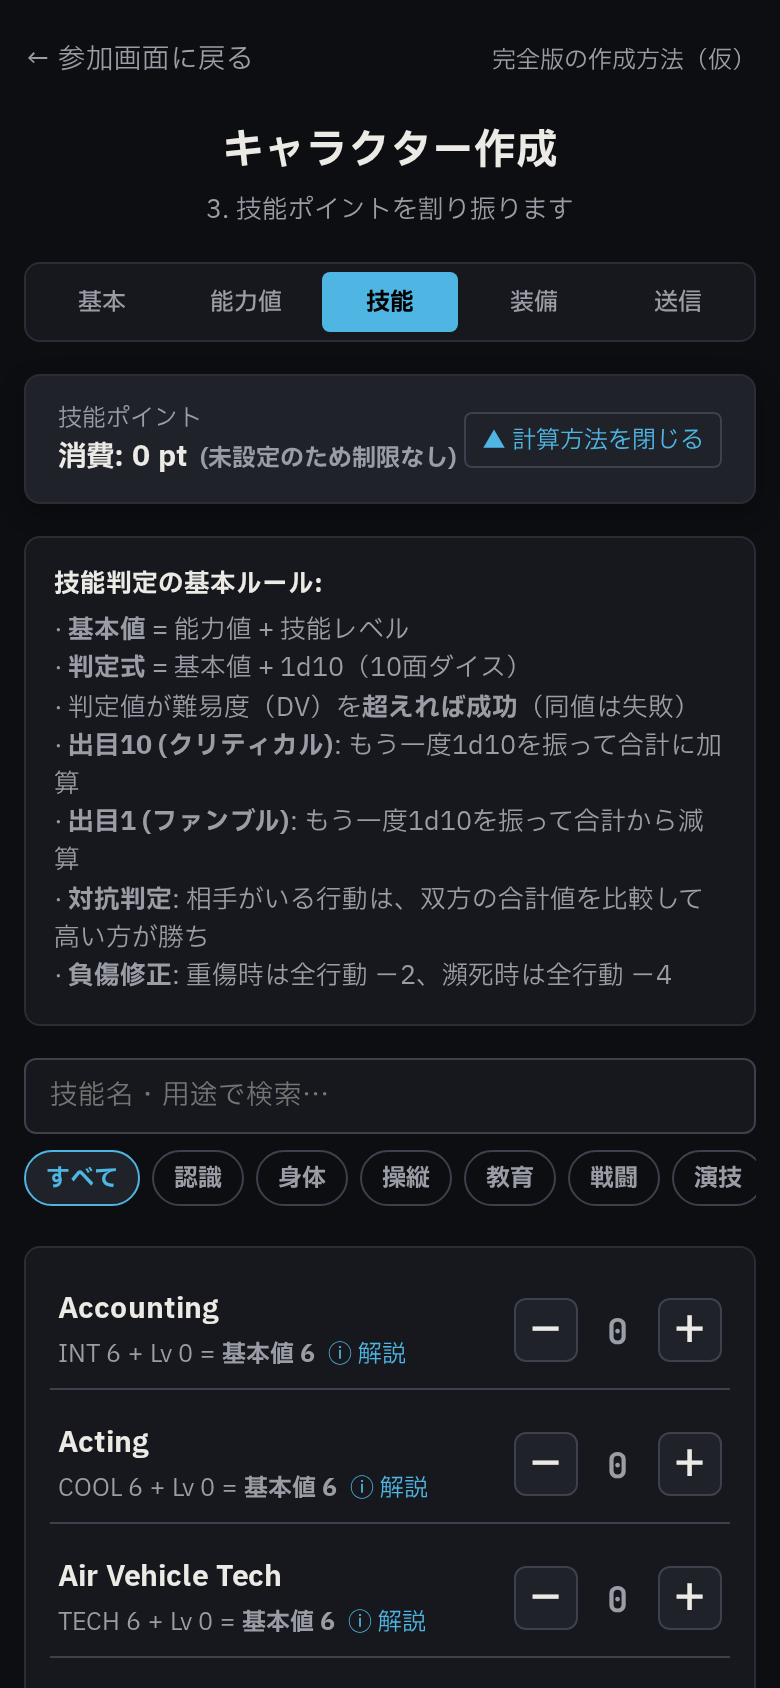
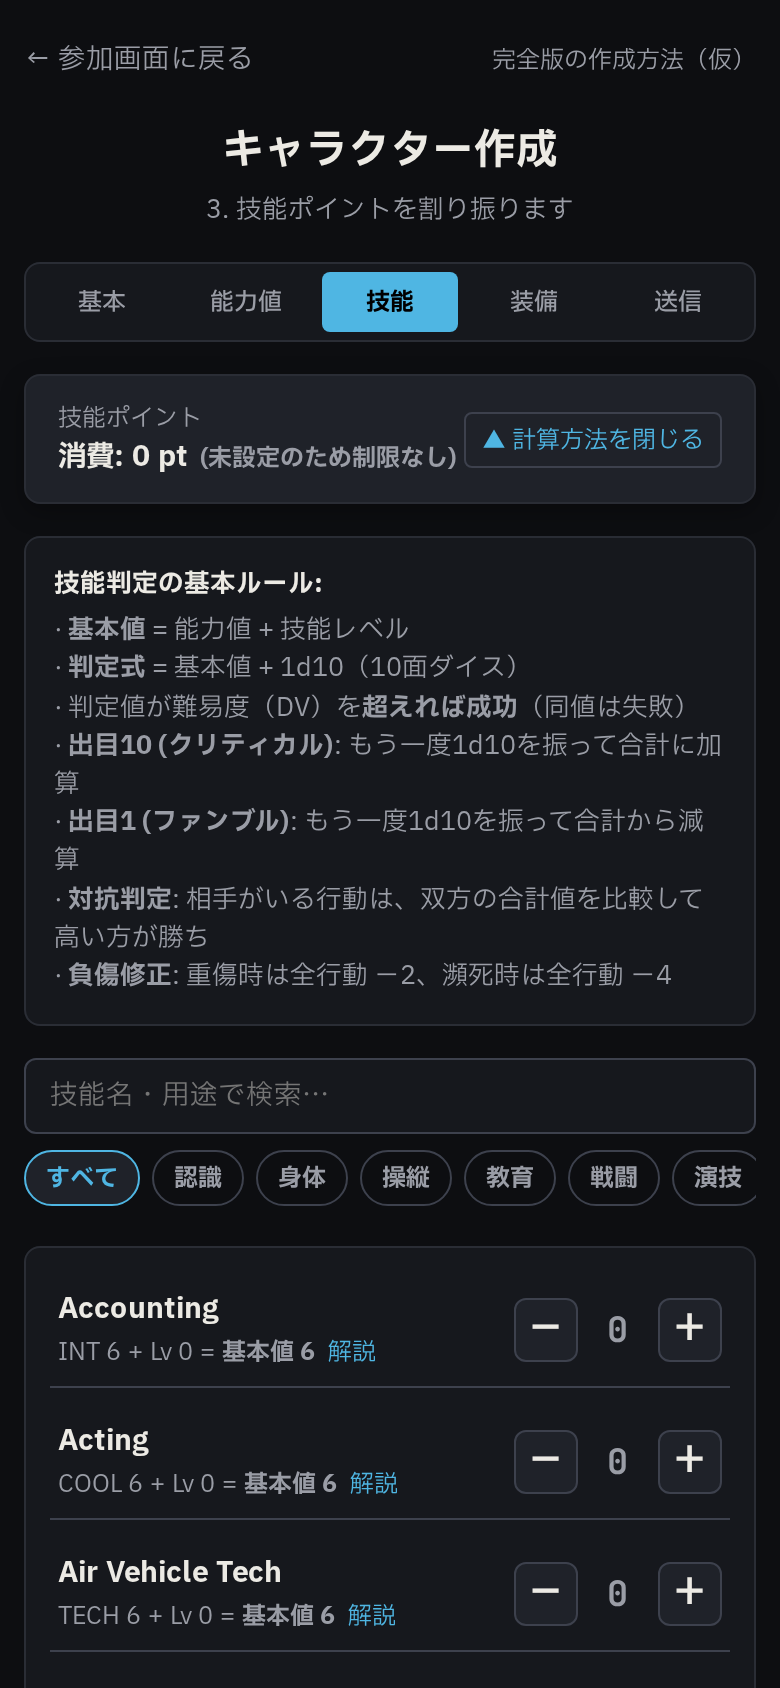
fix(phase3b): address review 02 (skill-notes data format and remove emojis)

diff --git a/apps/web/src/pages/CharacterCreatePage.tsx b/apps/web/src/pages/CharacterCreatePage.tsx
@@ -422,7 +422,6 @@ export const CharacterCreatePage: React.FC = () => {
               gap: '16px',
             }}
           >
-            <div style={{ fontSize: '2.5rem' }}>⏳</div>
             <h2 style={{ fontSize: '1.2rem', margin: 0, color: 'var(--color-warning)' }}>
               GMの受付待ちです
             </h2>
@@ -443,7 +442,7 @@ export const CharacterCreatePage: React.FC = () => {
                   cursor: 'pointer',
                 }}
               >
-                💾 バックアップ保存 (.cpgm)
+                バックアップ保存 (.cpgm)
               </button>
             </div>
           </div>
@@ -462,7 +461,6 @@ export const CharacterCreatePage: React.FC = () => {
               gap: '16px',
             }}
           >
-            <div style={{ fontSize: '2.5rem' }}>🎉</div>
             <h2 style={{ fontSize: '1.2rem', margin: 0, color: 'var(--color-ally)' }}>
               GMがキャラクターを取り込みました！
             </h2>
@@ -504,7 +502,6 @@ export const CharacterCreatePage: React.FC = () => {
               gap: '16px',
             }}
           >
-            <div style={{ fontSize: '2.5rem' }}>↩</div>
             <h2 style={{ fontSize: '1.2rem', margin: 0, color: 'var(--color-accent)' }}>
               GMから差し戻されました
             </h2>
@@ -687,11 +684,11 @@ export const CharacterCreatePage: React.FC = () => {
                   display: 'flex',
                   alignItems: 'center',
                   justifyContent: 'center',
-                  fontSize: '2.5rem',
+                  fontSize: '0.85rem',
                   color: 'var(--color-text-muted)',
                 }}
               >
-                👤
+                No Image
               </div>
             )}
 
@@ -708,7 +705,7 @@ export const CharacterCreatePage: React.FC = () => {
                 cursor: 'pointer',
               }}
             >
-              📷 写真を撮る・画像を選択
+              写真を撮る・画像を選択
             </button>
             <span style={{ fontSize: '0.7rem', color: 'var(--color-text-muted)' }}>
               ※ 正方形に中央切り抜きされます
@@ -1203,7 +1200,7 @@ export const CharacterCreatePage: React.FC = () => {
 
                     <div style={{ fontSize: '0.75rem', color: 'var(--color-text-muted)', marginTop: '2px' }}>
                       {s.stat.toUpperCase()} {statVal} + Lv {lvl} = <strong>基本値 {baseVal}</strong>
-                      <span style={{ color: 'var(--color-ally)', marginLeft: '6px' }}>ⓘ 解説</span>
+                      <span style={{ color: 'var(--color-ally)', marginLeft: '6px' }}>解説</span>
                     </div>
                   </div>
 
@@ -1730,10 +1727,11 @@ export const CharacterCreatePage: React.FC = () => {
                     display: 'flex',
                     alignItems: 'center',
                     justifyContent: 'center',
-                    fontSize: '1.6rem',
+                    fontSize: '0.75rem',
+                    color: 'var(--color-text-muted)',
                   }}
                 >
-                  👤
+                  No Image
                 </div>
               )}
 
@@ -1768,7 +1766,7 @@ export const CharacterCreatePage: React.FC = () => {
                 cursor: 'pointer',
               }}
             >
-              {isSubmitting ? '送信中…' : '🚀 GMに送る'}
+              {isSubmitting ? '送信中…' : 'GMに送る'}
             </button>
 
             <button
@@ -1784,7 +1782,7 @@ export const CharacterCreatePage: React.FC = () => {
                 cursor: 'pointer',
               }}
             >
-              💾 ファイルに保存 (.cpgm)
+              ファイルに保存 (.cpgm)
             </button>
           </div>
         </div>

diff --git a/apps/web/src/components/CharacterReceptionView.tsx b/apps/web/src/components/CharacterReceptionView.tsx
@@ -212,7 +212,7 @@ export const CharacterReceptionView: React.FC<CharacterReceptionViewProps> = ({
                 cursor: 'pointer',
               }}
             >
-              📥 ファイルから取り込む (.cpgm)
+              ファイルから取り込む (.cpgm)
             </button>
           </div>
         </div>
@@ -432,11 +432,11 @@ export const CharacterReceptionView: React.FC<CharacterReceptionViewProps> = ({
                           display: 'flex',
                           alignItems: 'center',
                           justifyContent: 'center',
-                          fontSize: '1.4rem',
+                          fontSize: '0.75rem',
                           color: 'var(--color-text-muted)',
                         }}
                       >
-                        👤
+                        No Image
                       </div>
                     )}
 
@@ -489,7 +489,7 @@ export const CharacterReceptionView: React.FC<CharacterReceptionViewProps> = ({
                             color: 'var(--color-text-muted)',
                           }}
                         >
-                          {sub.source === 'wifi' ? '📶 Wi-Fi' : '📄 ファイル'}
+                          {sub.source === 'wifi' ? 'Wi-Fi' : 'ファイル'}
                         </span>
 
                         {hasErrors ? (
@@ -658,10 +658,11 @@ export const CharacterReceptionView: React.FC<CharacterReceptionViewProps> = ({
                       display: 'flex',
                       alignItems: 'center',
                       justifyContent: 'center',
-                      fontSize: '1.2rem',
+                      fontSize: '0.75rem',
+                      color: 'var(--color-text-muted)',
                     }}
                   >
-                    👤
+                    No Image
                   </div>
                 )}
                 <div>

diff --git a/apps/server/src/db/init-phase3b.ts b/apps/server/src/db/init-phase3b.ts
@@ -13,12 +13,17 @@ export function initPhase3bData(dbInstance: AppDatabase) {
   if (fs.existsSync(notesPath)) {
     try {
       const raw = fs.readFileSync(notesPath, 'utf-8');
-      const notesJson: Record<string, string> = JSON.parse(raw);
+      const parsed = JSON.parse(raw);
+      const notesJson: Record<string, string> =
+        parsed && typeof parsed.notes === 'object' && parsed.notes !== null
+          ? parsed.notes
+          : parsed;
       const existing = dbInstance.select().from(skill_notes).all();
       const existingKeys = new Set(existing.map((n) => n.key));
 
       const now = Date.now();
       for (const [key, text] of Object.entries(notesJson)) {
+        if (key === '_note' || typeof text !== 'string') continue;
         if (!existingKeys.has(key)) {
           dbInstance
             .insert(skill_notes)

diff --git a/e2e/character-creation.spec.ts b/e2e/character-creation.spec.ts
@@ -103,7 +103,7 @@ test('Character creation flow: Player creates character on mobile, submits to GM
   });
 
   // Click "GMに送る"
-  const submitBtn = playerPage.getByRole('button', { name: '🚀 GMに送る' });
+  const submitBtn = playerPage.getByRole('button', { name: 'GMに送る', exact: true });
   await submitBtn.click();
 
   // Verify status is "GMの受付待ちです"

diff --git a/docs/agy/reports/phase3b-character-02.md b/docs/agy/reports/phase3b-character-02.md
@@ -1,0 +1,71 @@
+# Phase 3b 報告 02: レビュー指摘 02 への対応
+
+- **作成日**: 2026-10-20
+- **作業ブランチ**: `agy/phase3b-character`
+- **対象ドキュメント**: `docs/agy/phase3b-character.md` (§10 レビュー指摘 02)
+
+---
+
+## 1. 実施概要
+
+`docs/agy/phase3b-character.md` の §10「レビュー指摘 02」に基づき、以下の 2 点を修正・検証しました。
+
+### 1. 技能の「使う場面」の出どころとデータ形式の修正
+- ローカルで独自生成していた `docs/data/skill-notes.ja.json` を削除した上で、`git fetch origin && git merge origin/main` により main ブランチの初版（コミット `80dbd2c`）を取り込みました。
+- main のデータ構造 `{ "_note": ..., "notes": { [key]: "文" } }` に合わせ、`apps/server/src/db/init-phase3b.ts` のシード読み込み処理を改修しました（`_note` フィールドはスキップし、`notes` オブジェクト内の 63 技能を展開して DB へシード）。
+- ファイル内の文章内容は Issue #20 での確認待ちのため、一切変更していません。
+
+### 2. 画面文字からの絵文字の完全排除
+- 指示に従い、今後画面の文字に絵文字を使用しない方針を徹底しました。
+- **`CharacterCreatePage.tsx`**:
+  - `💾 バックアップ保存 (.cpgm)` → `バックアップ保存 (.cpgm)`
+  - `📷 写真を撮る・画像を選択` → `写真を撮る・画像を選択`
+  - `💾 ファイルに保存 (.cpgm)` → `ファイルに保存 (.cpgm)`
+  - `🚀 GMに送る` → `GMに送る`
+  - `ⓘ 解説` → `解説`
+  - プレースホルダーやステータス表示の絵文字（`⏳`, `🎉`, `↩`, `👤`）を削除・テキスト化（`No Image` 等）。
+- **`CharacterReceptionView.tsx`**:
+  - `📥 ファイルから取り込む (.cpgm)` → `ファイルから取り込む (.cpgm)`
+  - `📶 Wi-Fi` → `Wi-Fi`
+  - `📄 ファイル` → `ファイル`
+  - プレースホルダーの `👤` を `No Image` に置き換え。
+
+---
+
+## 2. スクリーンショット（絵文字排除後の最新画面）
+
+### スマホでのキャラクター作成 (幅 390px)
+
+| Step 1: 基本 | Step 2: 能力値 |
+| :---: | :---: |
+| ![Phase 3b Create Step 1](img/phase3b-create-01-basic.png) | ![Phase 3b Create Step 2](img/phase3b-create-02-stats.png) |
+
+| Step 3: 技能 | Step 4: 装備 |
+| :---: | :---: |
+| ![Phase 3b Create Step 3](img/phase3b-create-03-skills.png) | ![Phase 3b Create Step 4](img/phase3b-create-04-gear.png) |
+
+| Step 5: 送信 |
+| :---: |
+| ![Phase 3b Create Step 5](img/phase3b-create-05-submit.png) |
+
+---
+
+### GM 画面 (幅 1440px)
+
+#### キャラ受付画面
+![Phase 3b GM Reception](img/phase3b-gm-reception.png)
+
+#### 技能タブ（一覧と成功率）
+![Phase 3b GM Skills](img/phase3b-gm-skills.png)
+
+---
+
+## 3. テスト実行結果
+
+- **単体テスト**: 21 ファイル 110 テスト全通過 (`npm test`)
+- **型チェック**: エラー 0 件 (`npm run typecheck`)
+- **静的解析**: エラー 0 件 (`npm run lint`)
+- **E2E テスト**: 3 件全通過 (`npx playwright test`、ポート 8788 にて実行)
+  - `character-creation.spec.ts`: 絵文字排除後のボタンセレクタで正常動作を確認し、スクリーンショットを再取得
+- **常駐サーバー（ポート 8787）**: 停止・再起動を行わず、継続稼働中
+- **本番 DB（`data/cyberpgm.db`）**: 全テスト実行後もタイムスタンプに変更はなく、完全に保護されていることを確認
